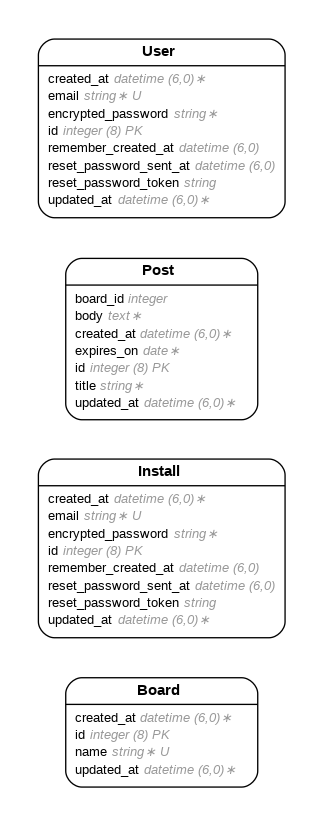
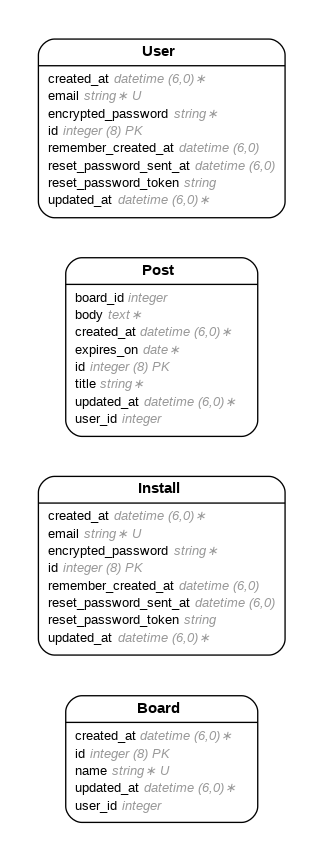
added user id to tables

Changed region(s): [[0.1238, 0.0303, 0.8978, 0.5145], [0.0929, 0.5448, 0.8978, 0.9685], [0.8669, 0.7264, 0.8978, 0.7567]]

diff --git a/db/schema.rb b/db/schema.rb
@@ -10,7 +10,7 @@
 #
 # It's strongly recommended that you check this file into your version control system.
 
-ActiveRecord::Schema[7.1].define(version: 2025_05_13_222749) do
+ActiveRecord::Schema[7.1].define(version: 2025_05_13_225740) do
   # These are extensions that must be enabled in order to support this database
   enable_extension "plpgsql"
 
@@ -18,6 +18,7 @@ ActiveRecord::Schema[7.1].define(version: 2025_05_13_222749) do
     t.string "name"
     t.datetime "created_at", null: false
     t.datetime "updated_at", null: false
+    t.integer "user_id"
   end
 
   create_table "installs", force: :cascade do |t|
@@ -39,6 +40,7 @@ ActiveRecord::Schema[7.1].define(version: 2025_05_13_222749) do
     t.integer "board_id"
     t.datetime "created_at", null: false
     t.datetime "updated_at", null: false
+    t.integer "user_id"
   end
 
   create_table "users", force: :cascade do |t|

diff --git a/app/models/board.rb b/app/models/board.rb
@@ -6,6 +6,7 @@
 #  name       :string
 #  created_at :datetime         not null
 #  updated_at :datetime         not null
+#  user_id    :integer
 #
 class Board < ApplicationRecord
   validates(:name, presence: true, uniqueness: true)

diff --git a/app/models/post.rb b/app/models/post.rb
@@ -9,6 +9,7 @@
 #  created_at :datetime         not null
 #  updated_at :datetime         not null
 #  board_id   :integer
+#  user_id    :integer
 #
 class Post < ApplicationRecord
   validates(:title, presence: true)

diff --git a/db/migrate/20250513225542_add_user_id_to_boards.rb b/db/migrate/20250513225542_add_user_id_to_boards.rb
@@ -1,0 +1,5 @@
+class AddUserIdToBoards < ActiveRecord::Migration[7.1]
+  def change
+    add_column :boards, :user_id, :integer
+  end
+end

diff --git a/db/migrate/20250513225740_add_user_id_to_posts.rb b/db/migrate/20250513225740_add_user_id_to_posts.rb
@@ -1,0 +1,5 @@
+class AddUserIdToPosts < ActiveRecord::Migration[7.1]
+  def change
+    add_column :posts, :user_id, :integer
+  end
+end
